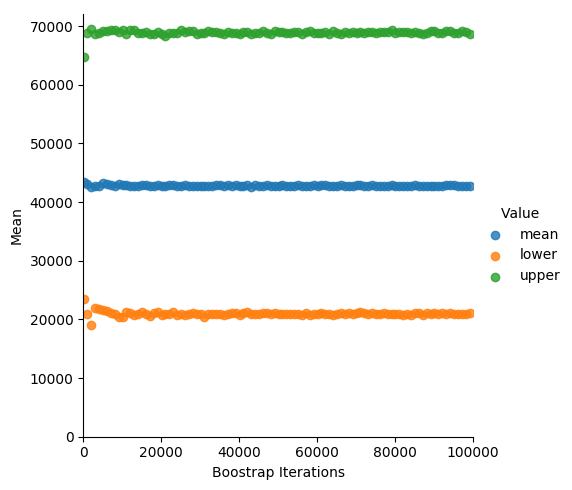
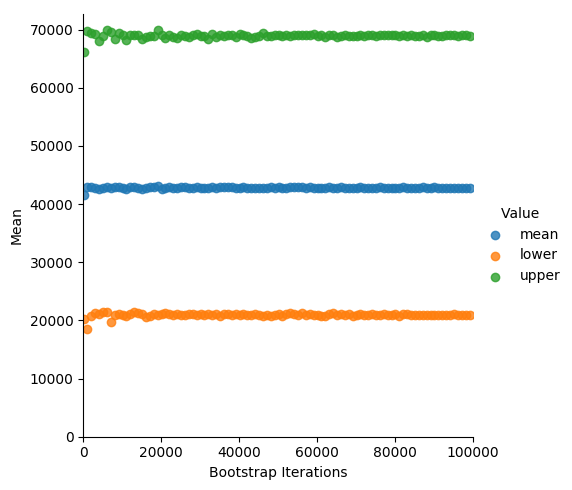
Completed

diff --git a/lab2/bootstrap.py b/lab2/bootstrap.py
@@ -7,7 +7,7 @@ import numpy as np
 
 
 
-def boostrap(sample, sample_size, iterations):
+def bootstrap(sample, sample_size, iterations):
     # <---INSERT YOUR CODE HERE--->
     array = np.empty([iterations, sample_size])
     mean = np.empty([iterations, 1])
@@ -28,12 +28,12 @@ if __name__ == "__main__":
     data = df.values.T[1]
     boots = []
     for i in range(100, 100000, 1000):
-        boot = boostrap(data, data.shape[0], i)
+        boot = bootstrap(data, data.shape[0], i)
         boots.append([i, boot[0], "mean"])
         boots.append([i, boot[1], "lower"])
         boots.append([i, boot[2], "upper"])
 
-    df_boot = pd.DataFrame(boots, columns=['Boostrap Iterations', 'Mean', "Value"])
+    df_boot = pd.DataFrame(boots, columns=['Bootstrap Iterations', 'Mean', "Value"])
     sns_plot = sns.lmplot(df_boot.columns[0], df_boot.columns[1], data=df_boot, fit_reg=False, hue="Value")
 
     sns_plot.axes[0, 0].set_ylim(0, )

diff --git a/lab2/README.md b/lab2/README.md
@@ -1,5 +1,13 @@
-In this Lab-2 First we have created a vehicles.py file in Pycharm, the we have readed the vehicle.csv file to Create and save  scatterplots and  histograms for the current fleet and the proposed fleet (New_Fleet).
+In this Lab-2, First we have created a vehicles.py file in Pycharm, then we readed the vehicle.csv file to Create and save scatterplots and histograms for the current fleet and the proposed fleet (New_Fleet) as shown below:
+
 ![logo](./scaterplot.png?raw=true)
-![logo](./bootstrap_confidence.png?raw=true)
+
 ![logo](./current_fleet_histogram.png?raw=true)
+
 ![logo](./New_Fleet_Histogram.png?raw=true)
+
+
+Then, We have used the bootstrap.py to creatd a function bootstrap for calculating bootstrap confidence i.e Mean, Lower and Upper as shown below
+
+
+![logo](./bootstrap_confidence.png?raw=true)
